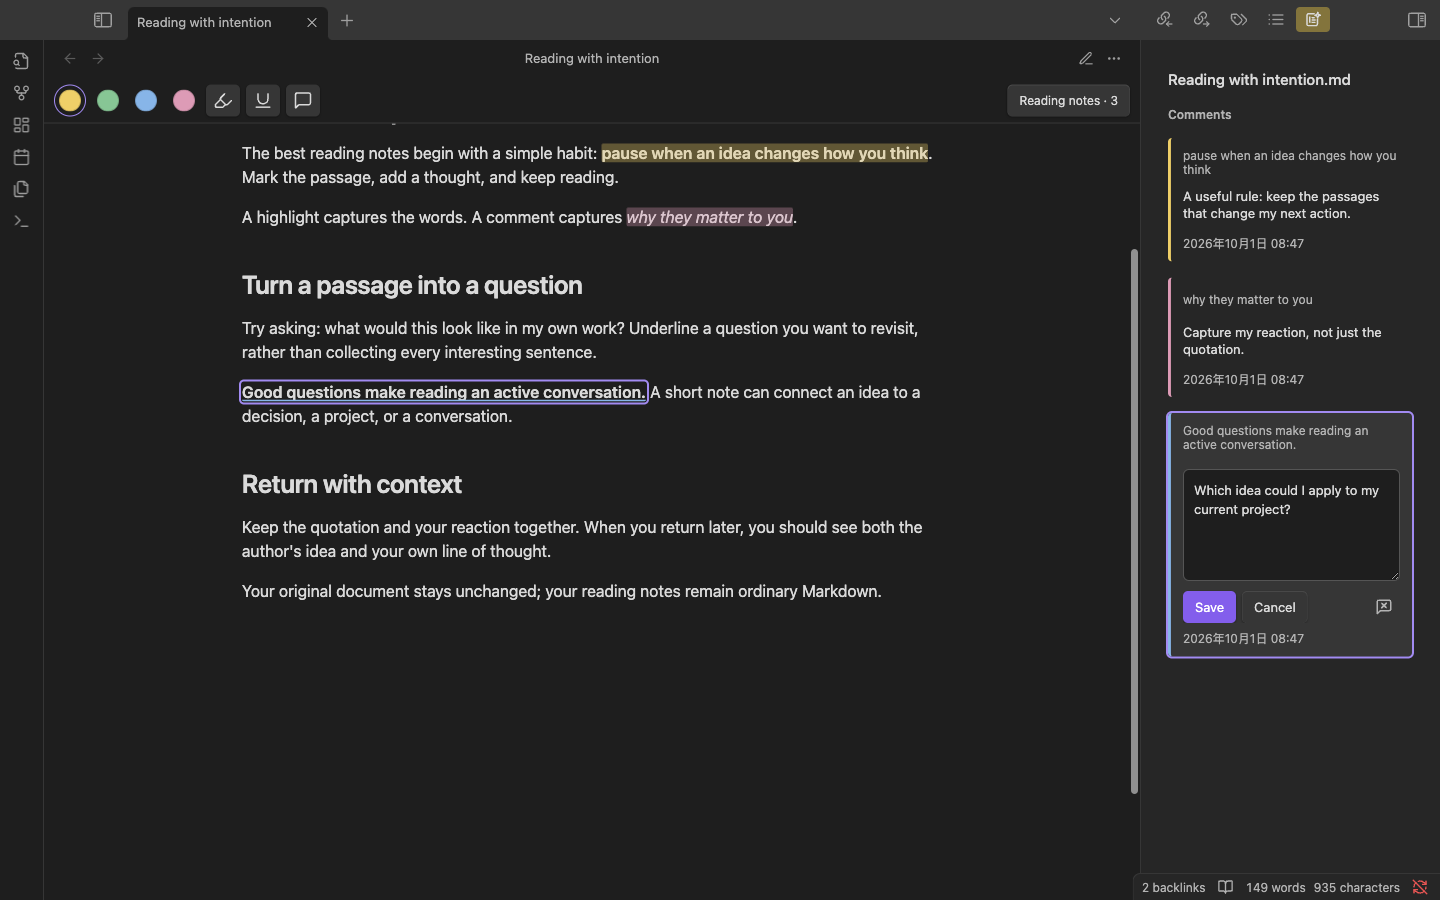
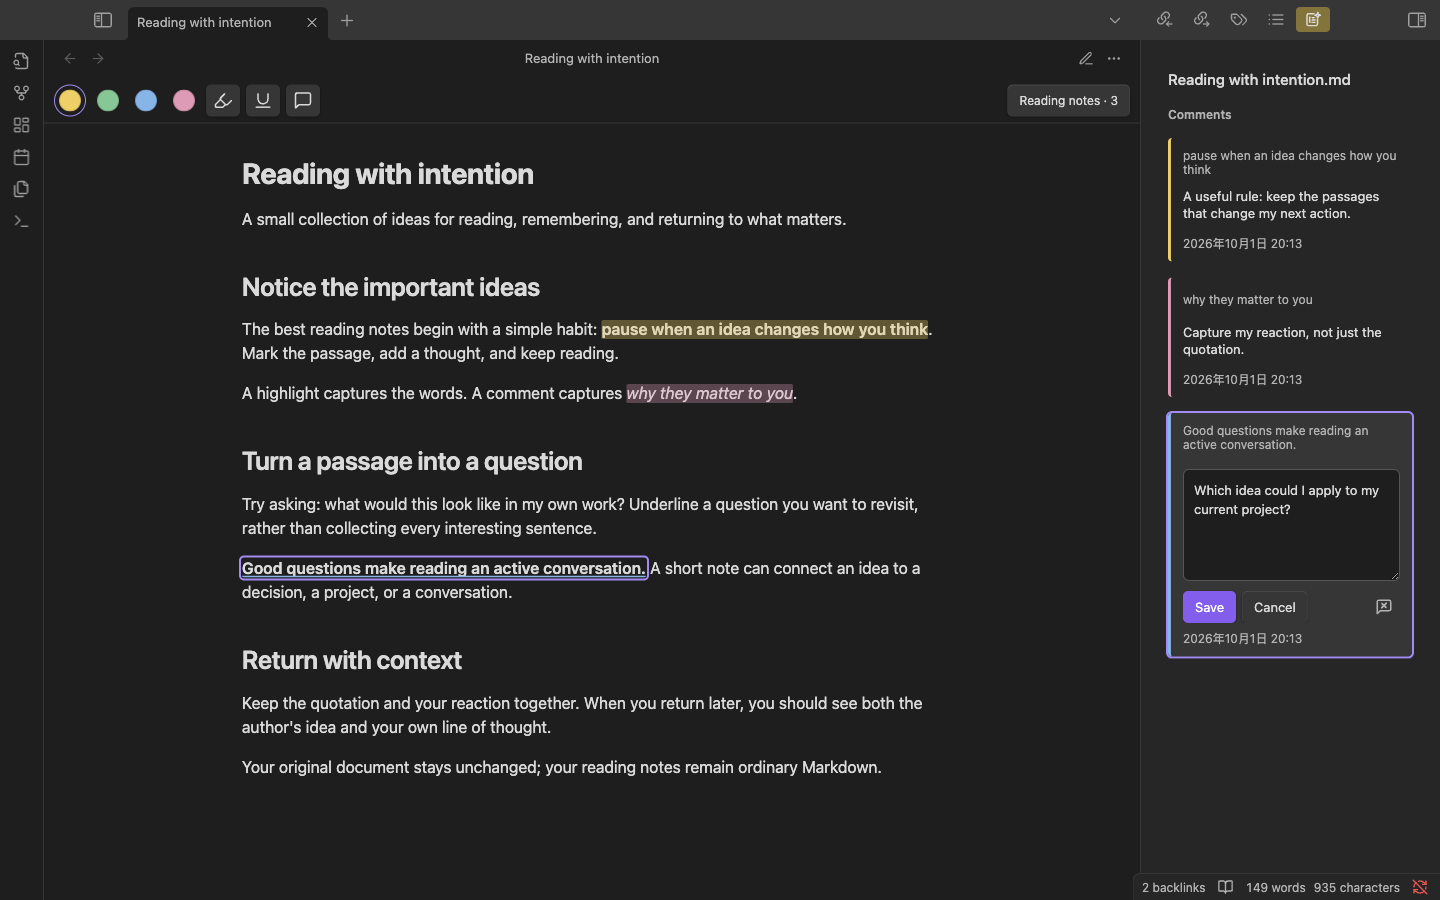
Use sidebar or floating annotation tools exclusively

diff --git a/src/session.ts b/src/session.ts
@@ -13,7 +13,8 @@ export interface SessionCallbacks {
   reassociate(this: void, selection: CapturedSelection): Promise<void>;
   cancelReassociation(this: void): void;
   onUiClosed(this: void): void;
-  openComments(this: void, session: AnnotationSession): Promise<void>;
+  toggleComments(this: void, session: AnnotationSession): Promise<void>;
+  isCommentsVisible(this: void, session: AnnotationSession): boolean;
   revealSource(this: void): Promise<void>;
   isActive(this: void): boolean;
 }
@@ -74,6 +75,16 @@ export class AnnotationSession {
         this.updatePageTools();
         const selection = this.currentSelection();
         if (selection) await this.pageAction(selection, this.preferredStyle);
+        else if (this.callbacks.isCommentsVisible(this) && !this.pageBusy && !this.error) {
+          const entry = this.entries.find(entry => entry.annotation.id === this.activeId);
+          if (!entry) return;
+          this.pageBusy = true;
+          try {
+            await this.store.save(this.source, { ...entry.annotation, color, updatedAt: new Date().toISOString() }, entry.raw);
+            await this.refresh();
+          } catch (error) { callbacks.report(error instanceof Error ? error.message : String(error)); }
+          finally { this.pageBusy = false; }
+        }
       }, `Choose ${color}`);
     }
     this.pageHighlight = document.win.createEl("button");
@@ -98,7 +109,7 @@ export class AnnotationSession {
     this.notesButton.className = "marglow-notes-button";
     this.notesButton.type = "button";
     this.notesButton.textContent = "Reading notes";
-    this.notesButton.addEventListener("click", () => { void callbacks.openComments(this).catch(error => callbacks.report(String(error))); });
+    this.notesButton.addEventListener("click", () => { void callbacks.toggleComments(this).catch(error => callbacks.report(String(error))); });
     this.tools.append(this.notesButton);
     this.updatePageTools();
     root.classList.add("marglow-source");
@@ -140,7 +151,13 @@ export class AnnotationSession {
       const hits = this.hits(event.clientX, event.clientY);
       if (!hits.length) this.emphasize(null, null);
       if (hits.length === 1) this.open(hits[0]!.annotation, new DOMRect(event.clientX, event.clientY, 1, 1));
-      else if (hits.length > 1) this.ui.choose(new DOMRect(event.clientX, event.clientY, 1, 1), hits.map(hit => hit.annotation), annotation => this.open(annotation, new DOMRect(event.clientX, event.clientY, 1, 1)));
+      else if (hits.length > 1) {
+        const rect = new DOMRect(event.clientX, event.clientY, 1, 1);
+        if (this.callbacks.isCommentsVisible(this)) {
+          // All overlapping entries remain selectable in the sidebar.
+          this.open(hits.find(hit => hit.annotation.id === this.activeId)?.annotation ?? hits[0]!.annotation, rect);
+        } else this.ui.choose(rect, hits.map(hit => hit.annotation), annotation => this.open(annotation, rect));
+      }
     }, { signal });
     root.addEventListener("pointermove", event => {
       if (this.pointerActive || (event.target as Element).closest(".marglow-ui")) return;
@@ -186,6 +203,9 @@ export class AnnotationSession {
       }
       const existing = this.entries.find(entry => (entry.annotation.style ?? "highlight") === this.preferredStyle && this.adapter.matches(entry.annotation, captured));
       if (this.toolMode) { void this.pageAction(captured, this.toolMode); return; }
+      if (existing && this.callbacks.isCommentsVisible(this)) {
+        this.open(existing.annotation, captured.rect); return;
+      }
       this.ui.show(captured, this.actions(captured, existing), existing?.annotation);
       this.render();
     } catch (error) {
@@ -236,10 +256,13 @@ export class AnnotationSession {
   private open(annotation: Annotation, rect: DOMRect): void {
     const entry = this.entries.find(entry => entry.annotation.id === annotation.id);
     if (!entry || this.error) return;
+    this.preview = null;
+    this.emphasize(annotation.id, this.hoveredId, true);
+    if (this.callbacks.isCommentsVisible(this)) {
+      this.ui.close();
+      return;
+    }
     this.ui.show({ quote: annotation.quote, anchor: annotation.anchor, rect }, this.actions({ quote: annotation.quote, anchor: annotation.anchor, rect }, entry), annotation);
-    void this.callbacks.openComments(this).then(() => {
-      if (!this.disposed && !this.suspended && this.activeId === annotation.id) this.sidebar.emphasize(this.activeId, this.hoveredId, true);
-    });
   }
 
   private currentSelection(): CapturedSelection | null {
@@ -277,7 +300,8 @@ export class AnnotationSession {
     if (mode === "comment") {
       this.toolMode = null;
       this.updatePageTools();
-      this.ui.showComment(selection, actions, entry?.annotation);
+      const host = entry && this.callbacks.isCommentsVisible(this) ? this.sidebar.editorHost(entry.annotation.id) : undefined;
+      this.ui.showComment(selection, actions, entry?.annotation, host);
       this.render();
       return;
     }
@@ -392,7 +416,7 @@ export class AnnotationSession {
       count.className = "marglow-notes-count"; count.textContent = String(this.entries.length);
       count.setAttribute("aria-hidden", "true"); this.notesButton.append(count);
     } else this.notesButton.textContent = label;
-    this.notesButton.title = this.unlocated.size ? "Show annotations in the sidebar; use Reassociate an annotation for unlocated entries." : "Show reading notes in the right sidebar";
+    this.syncSidebarVisibility();
   }
 
   private hits(x: number, y: number): LocatedAnnotation[] {
@@ -412,6 +436,13 @@ export class AnnotationSession {
 
   get sidebarElement(): HTMLElement { return this.sidebar.element; }
 
+  syncSidebarVisibility(reveal = false): void {
+    const visible = this.callbacks.isCommentsVisible(this);
+    this.notesButton.setAttribute("aria-expanded", String(visible));
+    this.notesButton.title = visible ? "Hide reading notes" : "Show reading notes";
+    if (visible && reveal) this.sidebar.emphasize(this.activeId, this.hoveredId, true);
+  }
+
   private async selectFromSidebar(annotation: Annotation, edit: boolean): Promise<void> {
     if (!await this.ui.finish() || this.disposed || this.suspended || this.error) return;
     const entry = this.entries.find(entry => entry.annotation.id === annotation.id);
@@ -419,17 +450,19 @@ export class AnnotationSession {
     this.preview = null;
     this.adapter.root.ownerDocument.getSelection()?.removeAllRanges();
     this.emphasize(annotation.id, this.hoveredId, true);
+    if (edit) {
+      const host = this.sidebar.editorHost(annotation.id);
+      const selection = { quote: entry.annotation.quote, anchor: entry.annotation.anchor, rect: (host ?? this.sidebar.element).getBoundingClientRect() };
+      this.ui.showComment(selection, this.actions(selection, entry), entry.annotation, host);
+      return;
+    }
     const token = ++this.navigation;
     await this.callbacks.revealSource();
     const navigated = await this.adapter.scrollTo?.(entry.annotation) ?? false;
     if (this.disposed || this.suspended || token !== this.navigation) return;
     this.render();
-    const rect = this.located.find(item => item.annotation.id === annotation.id)?.rects[0];
     if (!navigated) this.callbacks.report(this.unlocated.has(annotation.id) ? "This annotation is unlocated. Reassociate it from Reading notes." : "The document viewer could not load this annotation location. Reopen the source and try again.");
-    if (edit) {
-      const selection = { quote: entry.annotation.quote, anchor: entry.annotation.anchor, rect: rect ?? this.sidebar.element.getBoundingClientRect() };
-      this.ui.showComment(selection, this.actions(selection, entry), entry.annotation, this.sidebar.editorHost(annotation.id));
-    }
+
   }
 
   dispose(): void {

diff --git a/src/main.ts b/src/main.ts
@@ -153,7 +153,8 @@ export default class MarglowPlugin extends Plugin {
               const active = this.app.workspace.getActiveViewOfType(View);
               return active === view || (active?.getViewType() === COMMENTS_VIEW && this.commentsSource === view);
             },
-            openComments: session => this.openComments(session).catch(error => this.report(String(error))),
+            toggleComments: session => this.toggleComments(session),
+            isCommentsVisible: session => this.commentsVisible(session),
             revealSource: () => this.app.workspace.revealLeaf(view.leaf),
             report: message => this.report(message),
             cancelReassociation: () => { this.pending = null; },
@@ -191,11 +192,36 @@ export default class MarglowPlugin extends Plugin {
     for (const leaf of this.app.workspace.getLeavesOfType(COMMENTS_VIEW)) {
       if (leaf.view instanceof CommentsView) leaf.view.setSession(session);
     }
+    for (const mounted of this.mounted.values()) mounted.session.syncSidebarVisibility();
+  }
+
+  private commentsVisible(session: AnnotationSession): boolean {
+    return this.app.workspace.getLeavesOfType(COMMENTS_VIEW).some(leaf => {
+      const root = leaf.getRoot();
+      if (root === this.app.workspace.rightSplit && this.app.workspace.rightSplit.collapsed) return false;
+      if (root === this.app.workspace.leftSplit && this.app.workspace.leftSplit.collapsed) return false;
+      return leaf.view instanceof CommentsView && leaf.view.contentEl.contains(session.sidebarElement) && leaf.view.containerEl.isShown();
+    });
+  }
+
+  private async toggleComments(session: AnnotationSession): Promise<void> {
+    if (!await session.ui.finish()) return;
+    if (!this.commentsVisible(session)) { await this.openComments(session); return; }
+    const leaf = this.app.workspace.getLeavesOfType(COMMENTS_VIEW).find(leaf => leaf.view instanceof CommentsView && leaf.view.contentEl.contains(session.sidebarElement));
+    if (!leaf) return;
+    const root = leaf.getRoot();
+    if (root === this.app.workspace.rightSplit) this.app.workspace.rightSplit.collapse();
+    else if (root === this.app.workspace.leftSplit) this.app.workspace.leftSplit.collapse();
+    else leaf.detach();
+    const source = [...this.mounted].find(([, mounted]) => mounted.session === session)?.[0];
+    if (source) await this.app.workspace.revealLeaf(source.leaf);
+    session.syncSidebarVisibility();
   }
 
   private async openComments(session?: AnnotationSession): Promise<void> {
     const active = this.app.workspace.getActiveViewOfType(View);
     const target = session ?? (active?.getViewType() === COMMENTS_VIEW ? (this.commentsSource ? this.mounted.get(this.commentsSource)?.session : undefined) : (active ? this.mounted.get(active)?.session : undefined));
+    if (target && !await target.ui.finish()) return;
     if (target) this.commentsSource = [...this.mounted].find(([, mounted]) => mounted.session === target)?.[0] ?? null;
     const existing = this.app.workspace.getLeavesOfType(COMMENTS_VIEW)[0];
     const leaf = existing ?? this.app.workspace.getRightLeaf(false);
@@ -205,6 +231,7 @@ export default class MarglowPlugin extends Plugin {
       leaf.view.setSession(target ?? null);
     }
     await this.app.workspace.revealLeaf(leaf);
+    target?.syncSidebarVisibility(true);
   }
 
   private async sourceForCurrentFile(): Promise<Source | null> {

diff --git a/docs/TESTING.md b/docs/TESTING.md
@@ -6,7 +6,7 @@ Use a dedicated Vault with synthetic Markdown and PDF material. Never run these 
 
 - Window-ownership tests exercise detached helpers and SVG creation in a second document, including the event cancellation controller’s realm. A WebKit 26.6 browser check also confirmed inert section indexing makes no resource requests, executes no scripts, and excludes embedded text. Inert Markdown-section tests verify that embedded/script text does not affect target matching and parsed index nodes never enter the live document.
 - Automated checks cover Markdown round trips, direct edits, deletion, local-update preservation, stale-write rejection, malformed files, duplicate IDs, source association, text anchoring, PDF page transforms, cross-page selection, and composer persistence failures.
-- Mac smoke checks use actual Obsidian 1.8.10 with a private test profile. The 28 checks exercise visible round color swatches in light/dark themes, persistent page tools, active/hover distinction, native right-sidebar tabs with the Marglow line icon, document switching and focus association, Markdown/PDF persistence, source updates, per-frame PDF scroll alignment, zoom/rotation geometry, plugin reloads, and nonduplicated highlight/underline geometry across italic, linked, and nested styled text.
+- Mac smoke checks use actual Obsidian 1.8.10 with a private test profile. The 29 checks exercise visible round color swatches in light/dark themes, persistent page tools, active/hover distinction, native right-sidebar tabs with the Marglow line icon, document switching and focus association, Markdown/PDF persistence, source updates, per-frame PDF scroll alignment, zoom/rotation geometry, plugin reloads, and nonduplicated highlight/underline geometry across italic, linked, and nested styled text.
 - The maintainer confirmed physical iOS testing passed on 2026-10-01. Device model, iOS version, Obsidian version, and individual checklist outcomes were not supplied. This is a reported device result, separate from the automated checks below.
 
 Run `npm run check`, `npm run package`, and, on Mac, `npm run smoke:mac`. The smoke script creates isolated fixtures and checks source-byte preservation before it exits. Inspect its screenshots in the printed local output directory.
@@ -28,9 +28,9 @@ For an existing problematic document, optional `OBSIDIAN_TEST_PDF` and `OBSIDIAN
 
 Use this checklist for future regression runs. Unchecked boxes below are not a record of failures or the individual outcomes of the maintainer-reported iOS pass.
 
-- [ ] Check the Markdown toolbar against the top edge before and after scrolling. It has no Comments button; Reading notes opens the native right sidebar for Markdown/PDF without opening a companion-note tab.
+- [ ] Check the Markdown toolbar against the top edge before and after scrolling. It has no Comments button; Reading notes toggles the native right sidebar for Markdown/PDF without opening a companion-note tab. Clicking an existing mark leaves it closed and shows floating tools; while open, it reveals the card without a popup. Verify recoloring from the toolbar and overlapping-entry choice in both modes.
 - [ ] Verify Highlight/Underline/Comment icons and accessible labels. Save both styles on the same range in Markdown/PDF; reselecting reuses the same style, and underlines survive reload, zoom, rotation and scrolling.
-- [ ] Check the inline editor has one Save/Cancel action row and an accessible message-with-cross icon that clears only the comment, keeping its highlight and ID. Edit a comment in its sidebar card, then test outside-click autosave, cancel, keyboard shortcuts, a failed/stale write, and source switching; pending input remains visible on failure.
+- [ ] Check the inline editor has one Save/Cancel action row and an accessible message-with-cross icon that clears only the comment, keeping its highlight and ID. Edit a comment in its sidebar card without source navigation or closing the mobile drawer, then test outside-click autosave, cancel, keyboard shortcuts, a failed/stale write, and source switching; pending input remains visible on failure.
 - [ ] Confirm round, visible color swatches in both themes. Choose a color before selecting text, toggle Highlight mode, and start a comment from the page toolbar before selecting text.
 - [ ] In a long Markdown/PDF, navigate to unrendered distant targets from the sidebar, then click source highlights with the corresponding cards offscreen. Check heading expansion, rapid target switches, and original source bytes.
 - [ ] Select a source highlight or sidebar quote and delete using Delete/Backspace/Cmd + Delete; only its entry disappears. Check the trash icon for deleting the complete annotation, hover/focus visibility, and touch visibility, text inputs, inactive leaves, failed writes, and malformed notes.

diff --git a/docs/COMMUNITY_SUBMISSION.md b/docs/COMMUNITY_SUBMISSION.md
@@ -1,6 +1,6 @@
 # Community submission preparation
 
-Prepared on 2026-09-30; updated on 2026-10-01 for **0.2.4 — Public beta 5** and the maintainer-reported iOS test pass. The maintainer confirmed official community review approval on 2026-10-01.
+Prepared on 2026-09-30; updated on 2026-10-01 for **0.2.5 — Public beta 6** and the maintainer-reported iOS test pass. The maintainer confirmed official community review approval on 2026-10-01.
 
 ## Submission details
 
@@ -11,11 +11,11 @@ Prepared on 2026-09-30; updated on 2026-10-01 for **0.2.4 — Public beta 5** an
 | Name | Marglow |
 | Author | Weipeng Zhang |
 | Description | Highlight and comment on Markdown and PDF, with editable local Markdown reading notes. |
-| Release tag / manifest version | `0.2.4` |
+| Release tag / manifest version | `0.2.5` |
 | Minimum app version | `1.8.10` |
 | Desktop only | false; maintainer confirmed physical iOS testing passed on 2026-10-01 |
 | License | MIT |
-| Release | https://github.com/Wp-Zhang/obsidian-marglow/releases/tag/0.2.4 |
+| Release | https://github.com/Wp-Zhang/obsidian-marglow/releases/tag/0.2.5 |
 
 The current official process is the [Obsidian Community directory submission flow](https://docs.obsidian.md/Plugins/Releasing/Submit%20your%20plugin). It requires an Obsidian account, linked GitHub account, repository ownership verification, and the author's agreement to developer policies and continued maintenance. The maintainer submitted the plugin and confirmed official review approval on 2026-10-01.
 
@@ -32,7 +32,7 @@ The current official process is the [Obsidian Community directory submission flo
 ## Verification and review notes
 
 - Type check passed; 76 automated tests passed.
-- 28 checks passed in actual Obsidian 1.8.10 using an isolated Mac test Vault, including source-byte preservation and reload cleanup.
+- 29 checks passed in actual Obsidian 1.8.10 using an isolated Mac test Vault, including source-byte preservation and reload cleanup.
 - Release metadata, built files, archive, and absence of Node/Electron runtime dependencies validated by `npm run verify:release`.
 - Release 0.2.4 was built and published by the tagged Release workflow. All four downloaded assets passed `gh attestation verify` with the repository, signer workflow, source tag, and source commit constrained. The three plugin files match the locally tested build, and the ZIP contains those exact files.
 - Official `eslint-plugin-obsidianmd` recommended configuration: **0 errors, 3 warnings**. Two native element-creation warnings and one HTML parsing advisory remain inside the Markdown adapter’s inert, windowless template document. This preserves section structure and embedded-content exclusions without creating active-document nodes; tests verify that scripts do not run and index nodes do not enter the live DOM.
@@ -63,7 +63,7 @@ No legacy `obsidian-releases` pull request is prepared: the current official sub
 
 ## Mobile follow-up
 
-A phone toolbar inset issue and cross-device PDF geometry issue reported by the user were addressed. Desktop 1.13.7 native mobile emulation and Playwright WebKit 26.6 checks passed. A copied problematic PDF and reading note were tested without changing their bytes. The latest public beta is 0.2.4. The maintainer confirmed physical iOS testing passed on 2026-10-01.
+A phone toolbar inset issue and cross-device PDF geometry issue reported by the user were addressed. Desktop 1.13.7 native mobile emulation and Playwright WebKit 26.6 checks passed. A copied problematic PDF and reading note were tested without changing their bytes. The latest public beta is 0.2.5. The maintainer confirmed physical iOS testing passed on 2026-10-01.
 
 ## Release visibility correction (2026-10-01)
 

diff --git a/README.md b/README.md
@@ -10,7 +10,7 @@ The name combines **margin** and **glow**.
 
 ## Status
 
-**0.2.4 is a public beta**, available from [GitHub Releases](https://github.com/Wp-Zhang/obsidian-marglow/releases/tag/0.2.4). Tested on Mac and iOS, including physical iOS device testing. Marglow has passed the official Obsidian Community Plugins review.
+**0.2.5 is a public beta**, available from [GitHub Releases](https://github.com/Wp-Zhang/obsidian-marglow/releases/tag/0.2.5). Tested on Mac and iOS, including physical iOS device testing. Marglow has passed the official Obsidian Community Plugins review.
 
 ## Features
 
@@ -46,7 +46,7 @@ The same steps work on Mac and iOS. If Marglow is not visible yet, refresh the p
 
 ### Manual installation
 
-1. Download `marglow-0.2.4.zip` from the [release page](https://github.com/Wp-Zhang/obsidian-marglow/releases/tag/0.2.4) and extract it.
+1. Download `marglow-0.2.5.zip` from the [release page](https://github.com/Wp-Zhang/obsidian-marglow/releases/tag/0.2.5) and extract it.
 2. Copy `main.js`, `manifest.json`, and `styles.css` from the extracted `marglow/` folder into `<vault>/.obsidian/plugins/marglow/`.
 3. Reload Obsidian and enable **Marglow** under **Settings → Community plugins**.
 
@@ -54,7 +54,7 @@ On iOS, transfer the same three files to your Vault’s plugin directory using y
 
 ### BRAT
 
-With [BRAT](https://github.com/TfTHacker/obsidian42-brat), add `Wp-Zhang/obsidian-marglow` or select `0.2.4` explicitly.
+With [BRAT](https://github.com/TfTHacker/obsidian42-brat), add `Wp-Zhang/obsidian-marglow` or select `0.2.5` explicitly.
 
 Start in a test Vault. Report problems through [GitHub Issues](https://github.com/Wp-Zhang/obsidian-marglow/issues/new/choose), including app/plugin versions, device, reproduction steps, and a sample with private content removed.
 
@@ -63,8 +63,8 @@ Start in a test Vault. Report problems through [GitHub Issues](https://github.co
 1. Open a Markdown note in **Reading view** or a PDF with selectable text.
 2. Select text and choose a color for a highlight, or use the Underline or Comment tool. You can also activate a toolbar tool before selecting text; click the active tool again to turn it off.
 3. Write a comment and save, or click/tap outside to save automatically. Cancel discards the current unsaved edit. On Mac, use `Cmd + Enter` to save and `Esc` to cancel.
-4. Click an annotation to change its color, edit its comment, or delete it. For overlapping annotations, choose the entry you want to edit.
-5. Click **Reading notes** (an icon with a count on mobile) to open the native **Comments** sidebar. Click a quote to jump to its annotation; click comment text to edit it in the card. Clicking an annotation also reveals its sidebar card.
+4. Click an existing annotation to select it. With the sidebar hidden, its floating tools let you edit it. With the sidebar visible, its matching card is selected and scrolled into view without a popup; edit the comment in its card or change the selected annotation’s color using the toolbar. Choose overlapping entries in the sidebar, or in the floating picker when the sidebar is hidden.
+5. Click **Reading notes** (an icon with a count on mobile) to toggle the native **Comments** sidebar. Clicking annotations does not open it automatically. Click a sidebar quote to jump to the source, or comment text to edit in place.
 
 Delete a selected annotation with `Delete`, `Backspace`, or Mac `Cmd + Delete`, or use its trash icon. Deleting an annotation removes both its mark and comment; clearing only the comment keeps the mark. Text inputs retain normal editing shortcuts. Unsaved comments remain available if saving fails.
 

diff --git a/AGENTS.md b/AGENTS.md
@@ -23,6 +23,7 @@ Marglow is an Obsidian plugin for highlighting and commenting on Markdown and PD
 - Reflect direct comment edits in the companion note. Deleting a complete annotation entry removes its highlight; clearing only its comment preserves the highlight.
 - Preserve unlocated annotations and support manual reassociation without changing their IDs. Do not guess an ambiguous location.
 - Distinguish selected annotations from hovered and idle annotations. Keep the per-document Comments sidebar linked to Markdown/PDF highlights, with safe navigation, inline card editing, and retained unlocated entries. Use a native Obsidian right-sidebar view; let the host manage docking and mobile drawers instead of placing an overlay inside the document.
+- Let users toggle the Comments sidebar explicitly with Reading notes. Clicking an existing annotation must not open the sidebar: use floating tools while it is hidden, or select and reveal its card without a popup while it is visible. Inline comment editing must not hide the mobile drawer. Preserve overlapping-entry choice and color editing in both modes.
 - Use stable native block references in the companion reading note. Dedicated Copy link and Copy quote actions remain future work.
 
 ## Architecture and Data Integrity

diff --git a/CHANGELOG.md b/CHANGELOG.md
@@ -1,5 +1,13 @@
 # Changelog
 
+## 0.2.5 — Public beta 6 (2026-10-01)
+
+- Make Reading notes toggle the native Comments sidebar without opening it automatically when an annotation is clicked.
+- Use floating tools for existing annotations while Comments is hidden; select and reveal the corresponding card without a popup while it is visible.
+- Let the toolbar recolor the selected annotation in sidebar mode and keep overlapping entries selectable there.
+- Keep inline comment editing in the sidebar without navigating away or hiding the mobile drawer.
+- Refresh Markdown/PDF README screenshots and add native integration checks for both presentation modes.
+
 ## 0.2.4 — Public beta 5 (2026-10-01)
 
 - Build tagged releases in GitHub Actions, attest the exact plugin files and ZIP, and publish those files together.
